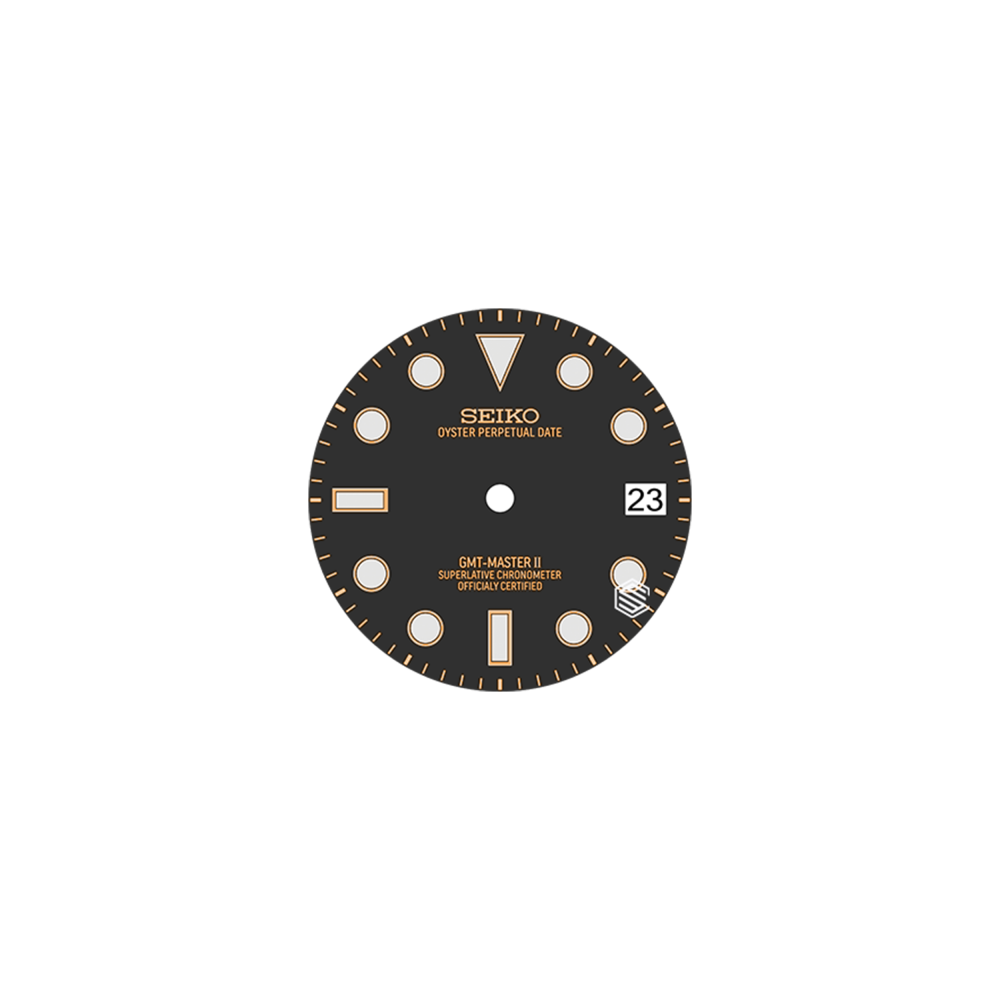
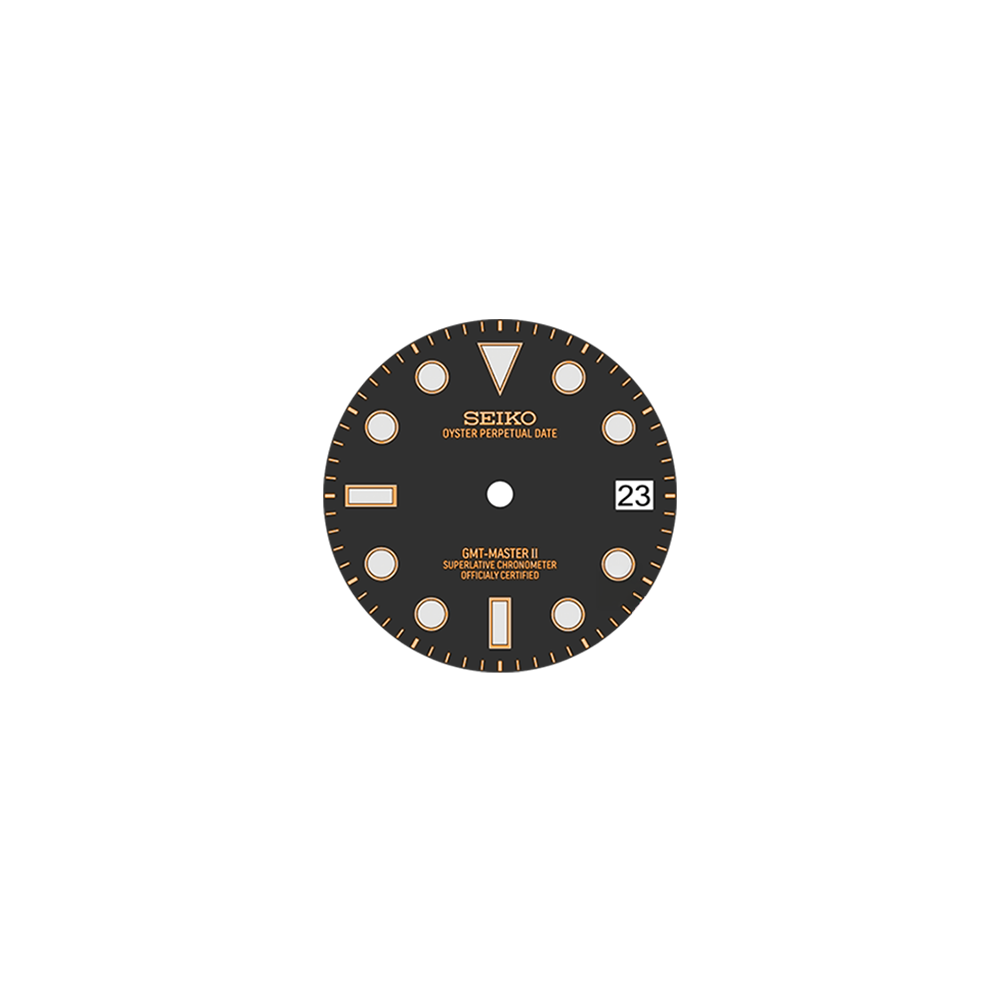
Swap the thirteen new dials for the supplied originals
The previous commit built these from 400x400 crops found in Downloads,
recentred on a 1000x1000 canvas. The real 1000x1000 renders were supplied
afterwards and replace them.

They are not equivalent: the crops carried discs of 378-394px where the
originals measure 350-358px, so the dial pressed against the bezel instead of
leaving the case rehaut visible. The originals also drop the circular mask
improvised for the Roman dial, which was opaque in the crop.

Also renames three labels to the supplier's own wording — anthracite rather
than noir for the GMT, bronze rather than or rose for the two dials whose
indices are orange-toned.

Changed region(s): [[0.31, 0.31, 0.713, 0.713]]

diff --git a/src/lib/parts.ts b/src/lib/parts.ts
@@ -158,11 +158,11 @@ export const categories: PartCategory[] = [
       { id: "marine-rouge", label: "Marine Master rouge", group: "Plongée", extra: 30, image: "/parts/dial/marine-rouge.png" },
       { id: "marine-noir-acier", label: "Marine Master noir, index acier", group: "Plongée", extra: 30, image: "/parts/dial/marine-noir-acier.png" },
       { id: "marine-noir-or", label: "Marine Master noir, index or", group: "Plongée", extra: 30, image: "/parts/dial/marine-noir-or.png" },
-      { id: "marine-noir-or-rose", label: "Marine Master noir, index or rose", group: "Plongée", extra: 30, image: "/parts/dial/marine-noir-or-rose.png" },
+      { id: "marine-noir-or-rose", label: "Marine Master noir, index bronze", group: "Plongée", extra: 30, image: "/parts/dial/marine-noir-or-rose.png" },
 
-      { id: "gmt-noir-acier", label: "GMT noir, index acier", group: "GMT", extra: 30, image: "/parts/dial/gmt-noir-acier.png" },
+      { id: "gmt-noir-acier", label: "GMT anthracite, index acier", group: "GMT", extra: 30, image: "/parts/dial/gmt-noir-acier.png" },
       { id: "gmt-noir-or", label: "GMT noir, index or", group: "GMT", extra: 30, image: "/parts/dial/gmt-noir-or.png" },
-      { id: "gmt-noir-or-rose", label: "GMT noir, index or rose", group: "GMT", extra: 30, image: "/parts/dial/gmt-noir-or-rose.png" },
+      { id: "gmt-noir-or-rose", label: "GMT noir, index bronze", group: "GMT", extra: 30, image: "/parts/dial/gmt-noir-or-rose.png" },
     ],
   },
   {
